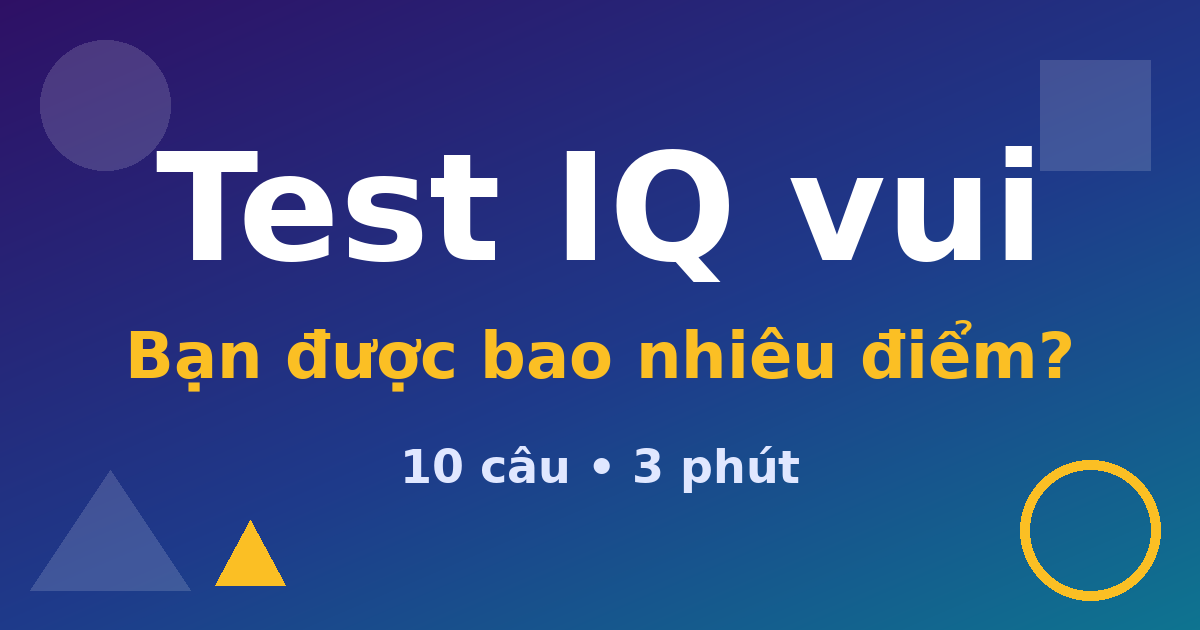
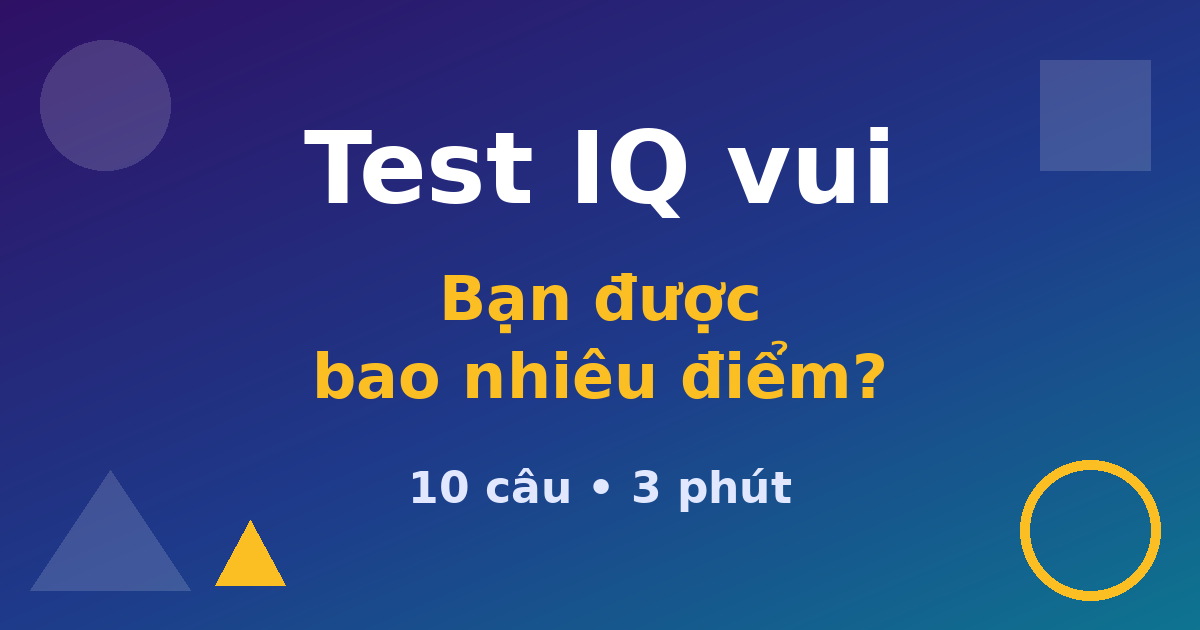
IQ game: fill the screen in in-app browsers, new share preview
Claude-Session: https://claude.ai/code/session_01GesAeUw3khpf5yYpp1VBxu

Changed region(s): [[0.0925, 0.181, 0.8942, 0.6333], [0.3392, 0.6937, 0.6783, 0.8143]]

diff --git a/iq/index.html b/iq/index.html
@@ -8,7 +8,9 @@
 <meta property="og:type" content="website">
 <meta property="og:title" content="Test IQ vui – bạn được bao nhiêu điểm?">
 <meta property="og:description" content="10 câu, 3 phút. Chơi thử rồi thách bạn bè!">
-<meta property="og:image" content="https://thuongdat.github.io/webgis/iq/preview.png">
+<meta property="og:image" content="https://thuongdat.github.io/webgis/iq/preview.png?v=2">
+<meta property="og:image:width" content="1200">
+<meta property="og:image:height" content="630">
 <meta property="og:url" content="https://thuongdat.github.io/webgis/iq/">
 <style>
   *, *::before, *::after { box-sizing: border-box; }
@@ -28,8 +30,9 @@
     max-width: 480px;
     margin: 0 auto;
     padding: 16px 16px 20px;
-    min-height: 100vh;
-    min-height: 100dvh;
+    /* --k: hệ số phóng to khi trình duyệt trên điện thoại hiển thị trang ở bề rộng máy tính */
+    min-height: calc(100vh / var(--k, 1));
+    min-height: calc(100dvh / var(--k, 1));
     display: flex;
     flex-direction: column;
   }
@@ -597,6 +600,17 @@ var QUESTIONS = [
   $("btn-start").addEventListener("click", function () { begin(); });
   $("btn-replay").addEventListener("click", function () { begin(); });
   document.addEventListener("visibilitychange", tick);
+
+  // Màn hình dọc mà bề rộng lại lớn (trình duyệt trong ứng dụng đang ở chế độ máy tính):
+  // phóng to cả trò chơi cho vừa khít bề ngang thay vì co lại thành một cột nhỏ.
+  function fit() {
+    var wide = window.innerHeight > window.innerWidth && window.innerWidth > 520;
+    var k = wide ? window.innerWidth / 480 : 1;
+    $("app").style.zoom = k === 1 ? "" : k;
+    $("app").style.setProperty("--k", k);
+  }
+  fit();
+  window.addEventListener("resize", fit);
 })();
 </script>
 </body>
